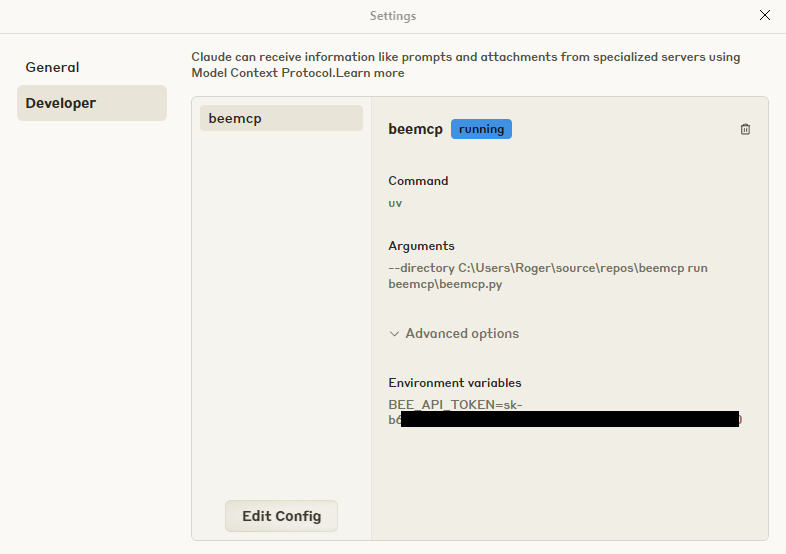
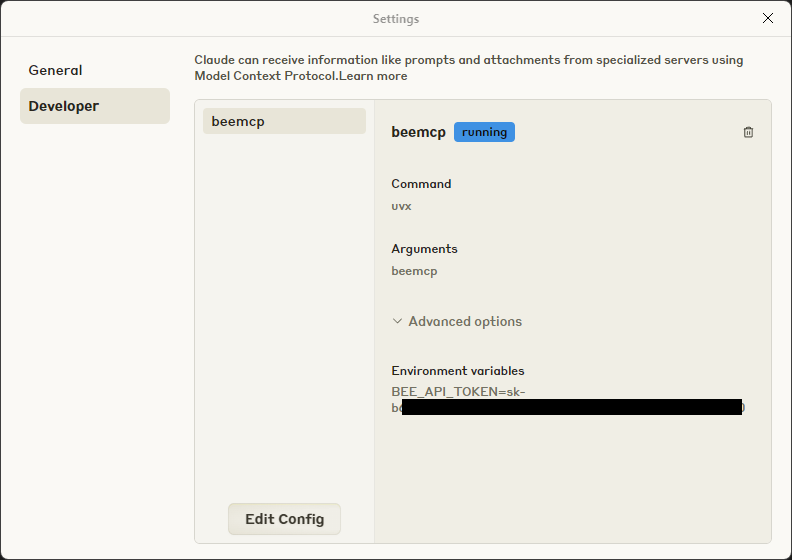
update screenshots in readme

diff --git a/README.md b/README.md
@@ -1,6 +1,6 @@
 # BeeMCP - A Bee MCP Server
 
-[![PyPI version](https://badge.fury.io/py/beemcp.svg)](https://badge.fury.io/py/beemcp)
+[![PyPI version](https://badge.fury.io/py/beemcp.svg)](https://badge.fury.io/py/beemcp?cache=1)
 [![License: MIT](https://img.shields.io/badge/License-MIT-yellow.svg)](https://opensource.org/licenses/MIT)
 
 **Unofficial** Model Context Protocol (MCP) server for interacting with your [Bee wearable](https://bee.computer/) lifelogging data.
@@ -20,7 +20,7 @@ Bee.computer helps you capture moments from your life (conversations, places vis
 
 The AI, using `beemcp`, can securely fetch or modify this information from your Bee.computer account.
 
-![Example Claude Desktop Chat](./claude-chat-screenshot.png)
+![Example Claude Desktop Chat](https://github.com/OkGoDoIt/beemcp/raw/master/claude-chat-screenshot.png)
 
 ## Prerequisites
 
@@ -97,8 +97,7 @@ You need to tell your LLM client (like Claude.app or Zed) how to start and commu
 
 Add the following to your Claude settings (`settings.json`):
 
-<details>
-<summary>Using uvx (Recommended)</summary>
+>Using uvx (Recommended):
 
 ```json
 "mcpServers": {
@@ -109,7 +108,6 @@ Add the following to your Claude settings (`settings.json`):
   }
 }
 ```
-</details>
 
 <details>
 <summary>Using pip installation</summary>
@@ -126,7 +124,8 @@ Add the following to your Claude settings (`settings.json`):
 </details>
 
 If you go to the `Settings` window in Claude Desktop and open the `Developer` tab, you should see something like this:
-![Example Claude Desktop Configuration](./claude-desktop-configuration.png)
+
+![Example Claude Desktop Configuration](https://github.com/OkGoDoIt/beemcp/raw/master/claude-desktop-configuration.png)
 
 #### Configure for Zed
 
@@ -266,9 +265,13 @@ MCP Resources provide direct access to data, often used for context or caching b
 
 ## Example Interactions
 
-![Example Claude Desktop Chat](./claude-chat-screenshot.png)
+![Example Claude Desktop Chat](https://github.com/OkGoDoIt/beemcp/raw/master/claude-chat-screenshot.png)
 
-![Example extended chat](./extended-chat-screenshot.png)
+![Example extended chat](https://github.com/OkGoDoIt/beemcp/raw/master/extended-chat-screenshot.png)
+
+After which the Bee app on your phone will suggest the fact:
+
+![Example Bee app suggestion](https://github.com/OkGoDoIt/beemcp/raw/master/suggested_fact.png)
 
 ## Debugging
 
